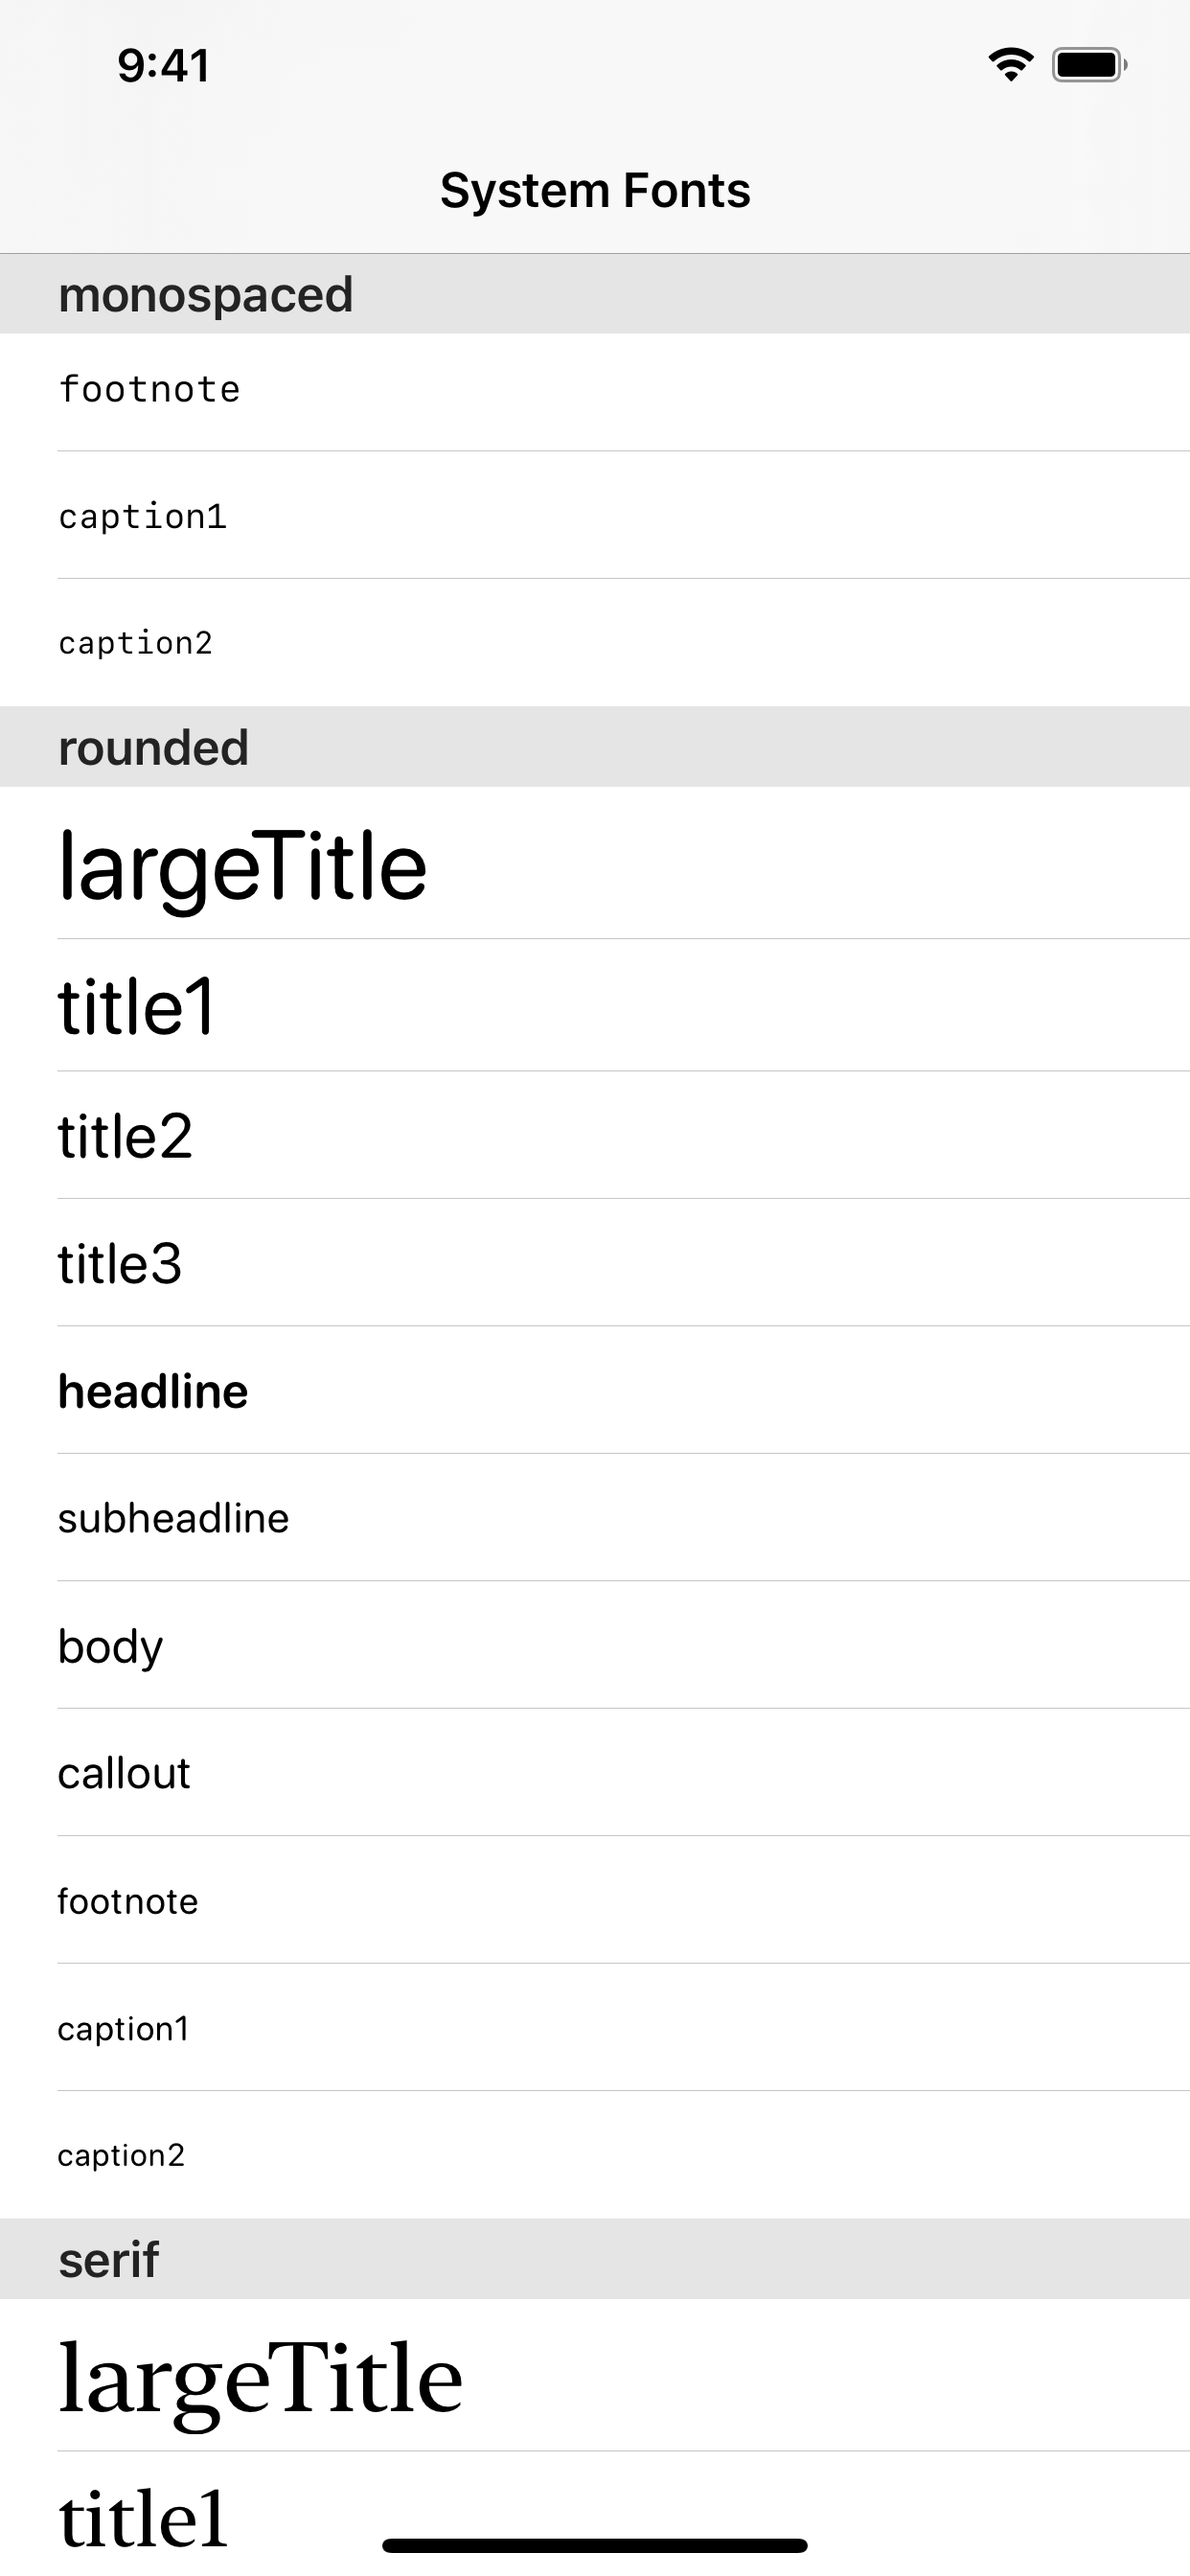
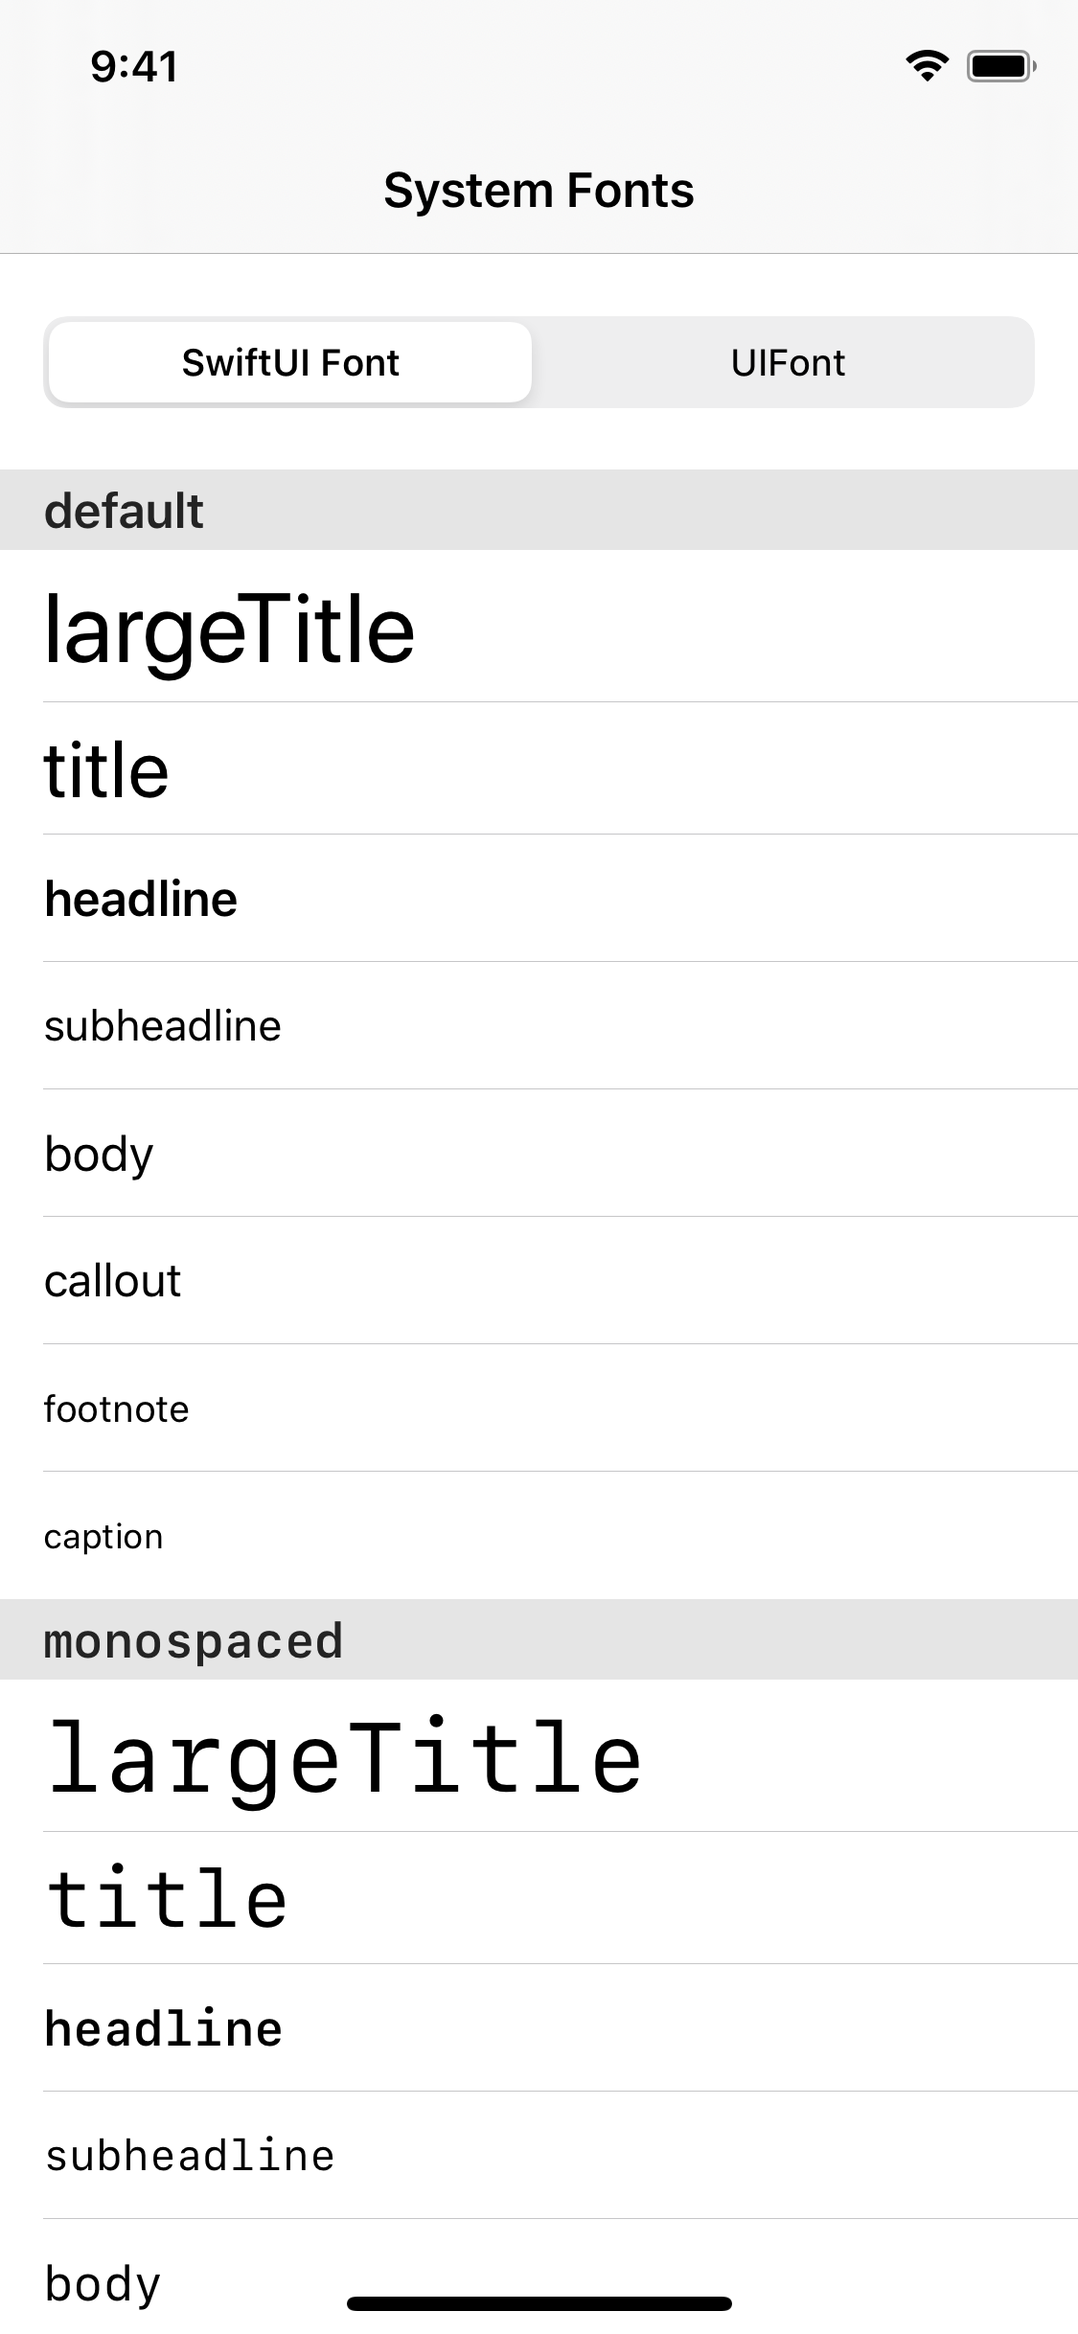
Add a segmented control and show values for SwiftUI Font too

diff --git a/System Fonts/ContentView.swift b/System Fonts/ContentView.swift
@@ -3,35 +3,22 @@ import SwiftUI
 
 struct ContentView: View {
 
+    @State var framework = Framework.swiftUI
+
     var body: some View {
         NavigationView {
             List {
-                ForEach(UIFontDescriptor.SystemDesign.allCases,
-                        id: \.self,
-                        content: DesignSection.init)
+
+                SegmentedControl(selection: $framework)
+                    .padding(.vertical)
+
+                if framework == .swiftUI {
+                    SwiftUIFonts()
+                } else if framework == .uiKit {
+                    UIKitFonts()
+                }
             }
             .navigationBarTitle("System Fonts", displayMode: .inline)
-        }
-    }
-}
-
-struct DesignSection: View {
-
-    let design: UIFontDescriptor.SystemDesign
-
-    private func cell(for style: UIFont.TextStyle) -> some View {
-        Text(style.description)
-            .font(.preferredFont(forTextStyle: style, design: design))
-    }
-
-    private var header: some View {
-        Text(design.description)
-            .font(.preferredFont(forTextStyle: .headline, design: design))
-    }
-
-    var body: some View {
-        Section(header: header) {
-            ForEach(UIFont.TextStyle.allCases, id: \.self, content: cell)
         }
     }
 }

diff --git a/System Fonts/SegmentedControl.swift b/System Fonts/SegmentedControl.swift
@@ -1,0 +1,44 @@
+
+import SwiftUI
+
+struct SegmentedControl<Option>: View
+where
+Option: Hashable,
+Option: Identifiable,
+Option: CustomStringConvertible,
+Option: CaseIterable,
+Option.AllCases: RandomAccessCollection {
+
+    let selection: Binding<Option>
+
+    var body: some View {
+        Picker(selection: selection, label: EmptyView()) {
+            ForEach(Option.allCases) { option in
+                Text(option.description).tag(option)
+            }
+        }.pickerStyle(SegmentedPickerStyle())
+    }
+}
+
+struct SegmentedControl_Previews: PreviewProvider {
+
+    enum Option: Identifiable, CaseIterable, CustomStringConvertible {
+        case one
+        case two
+
+        var id: Self { self }
+
+        var description: String {
+            switch self {
+            case .one: return "one"
+            case .two: return "two"
+            }
+        }
+    }
+
+    static var previews: some View {
+        SegmentedControl(selection: .constant(Option.one))
+            .padding()
+            .previewLayout(.sizeThatFits)
+    }
+}

diff --git a/System Fonts/UIKitFonts.swift b/System Fonts/UIKitFonts.swift
@@ -1,0 +1,41 @@
+
+import SwiftUI
+
+struct UIKitFonts: View {
+
+    var body: some View {
+        ForEach(UIFontDescriptor.SystemDesign.allCases,
+                id: \.self,
+                content: DesignSection.init)
+    }
+}
+
+extension UIKitFonts {
+
+    fileprivate struct DesignSection: View {
+
+        let design: UIFontDescriptor.SystemDesign
+
+        private func cell(for style: UIFont.TextStyle) -> some View {
+            Text(style.description)
+                .font(.preferredFont(forTextStyle: style, design: design))
+        }
+
+        private var header: some View {
+            Text(design.description)
+                .font(.preferredFont(forTextStyle: .headline, design: design))
+        }
+
+        var body: some View {
+            Section(header: header) {
+                ForEach(UIFont.TextStyle.allCases, id: \.description, content: cell)
+            }
+        }
+    }
+}
+
+struct UIKitFonts_Previews: PreviewProvider {
+    static var previews: some View {
+        UIKitFonts()
+    }
+}

diff --git a/System Fonts/SwiftUIFonts.swift b/System Fonts/SwiftUIFonts.swift
@@ -1,0 +1,41 @@
+
+import SwiftUI
+
+struct SwiftUIFonts: View {
+
+    var body: some View {
+        ForEach(Font.Design.allCases,
+                id: \.self,
+                content: DesignSection.init)
+    }
+}
+
+extension SwiftUIFonts {
+
+    fileprivate struct DesignSection: View {
+
+        let design: Font.Design
+
+        private func cell(for style: Font.TextStyle) -> some View {
+            Text(style.description)
+                .font(.system(style, design: design))
+        }
+
+        private var header: some View {
+            Text(design.description)
+                .font(.system(.headline, design: design))
+        }
+
+        var body: some View {
+            Section(header: header) {
+                ForEach(Font.TextStyle.allCases, id: \.description, content: cell)
+            }
+        }
+    }
+}
+
+struct SwiftUIFonts_Previews: PreviewProvider {
+    static var previews: some View {
+        SwiftUIFonts()
+    }
+}

diff --git a/System Fonts/Font.TextStyle.swift b/System Fonts/Font.TextStyle.swift
@@ -1,0 +1,23 @@
+
+import SwiftUI
+
+extension Font.TextStyle: CustomStringConvertible {
+
+    public var description: String {
+        switch self {
+        case .largeTitle: return "largeTitle"
+        case .title: return "title"
+        case .headline: return "headline"
+        case .subheadline: return "subheadline"
+        case .body: return "body"
+        case .callout: return "callout"
+        case .footnote: return "footnote"
+        case .caption: return "caption"
+        @unknown default: return "unknown"
+        }
+    }
+}
+
+extension Font.TextStyle: Identifiable {
+    public var id: String { description }
+}

diff --git a/System Fonts/Font.Design.swift b/System Fonts/Font.Design.swift
@@ -1,0 +1,27 @@
+
+import SwiftUI
+
+extension Font.Design: CustomStringConvertible {
+
+    public var description: String {
+        switch self {
+        case .default: return "default"
+        case .monospaced: return "monospaced"
+        case .rounded: return "rounded"
+        case .serif: return "serif"
+        default: fatalError()
+        }
+    }
+}
+
+extension Font.Design: CaseIterable {
+
+    public static var allCases: [Font.Design] {
+        [
+            .default,
+            .monospaced,
+            .rounded,
+            .serif
+        ]
+    }
+}

diff --git a/System Fonts/Framework.swift b/System Fonts/Framework.swift
@@ -1,0 +1,21 @@
+
+enum Framework {
+    case swiftUI
+    case uiKit
+}
+
+extension Framework: CaseIterable {}
+
+extension Framework: Identifiable {
+    var id: Self { self }
+}
+
+extension Framework: CustomStringConvertible {
+
+    var description: String {
+        switch self {
+        case .swiftUI: return "SwiftUI Font"
+        case .uiKit: return "UIFont"
+        }
+    }
+}

diff --git a/System Fonts/UIFont.TextStyle.swift b/System Fonts/UIFont.TextStyle.swift
@@ -1,6 +1,10 @@
 
 import UIKit
 
+extension UIFont.TextStyle: Identifiable {
+    public var id: String { description }
+}
+
 extension UIFont.TextStyle: CustomStringConvertible {
 
     public var description: String {
